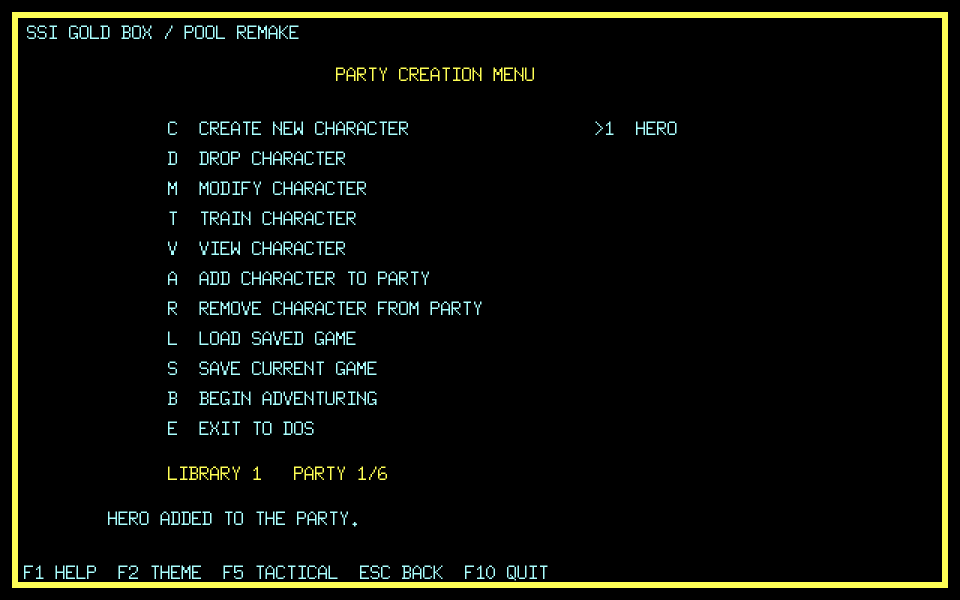
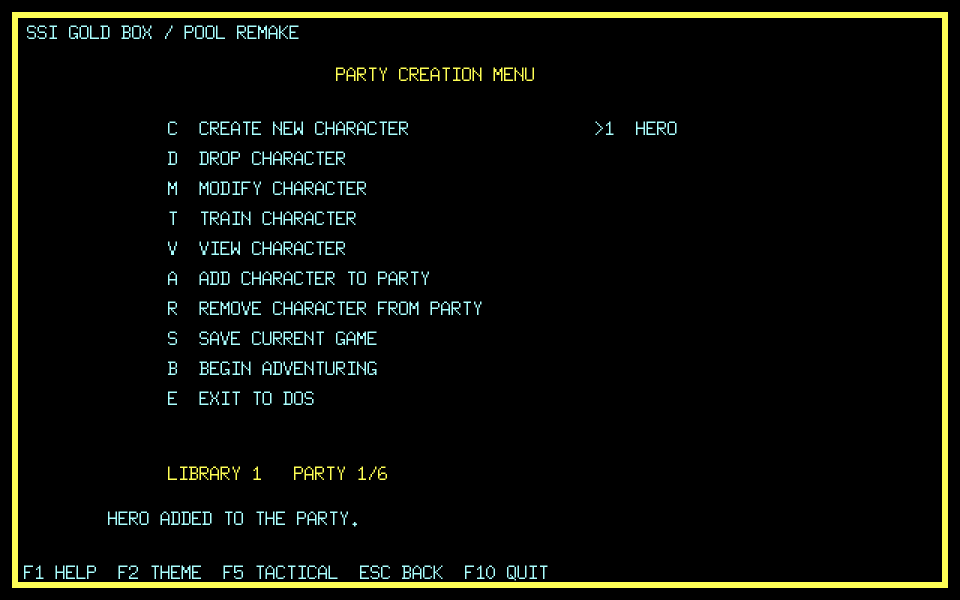
fix: 照原版訂正第一人稱背景色與隊伍選單可見規則
`tools/capture-dos-adventure.sh` 加拍 `-raw`（按鍵當下）與靜止兩張，才分得出
「畫面不一樣」與「拍錯時間點」——`B)EGIN` 之後的乾淨視野只閃一下就被 Rolf
事件蓋掉，先前那張基準圖因此標錯了狀態。

量原版量到三件事：

- 內框幾何 `(24,24)` 起 88×88，與 spec 047 的 `StageInset` 逐格相同。
- 天空是 EGA 11 青、地面是 EGA 6 棕；先前的 EGA 1 藍／EGA 8 深灰是接手時
  帶進來的佔位值，不是從原版讀的。兩個索引只對碼頭這一張成立，接第二張圖
  之前不要當通用值。
- 隊伍非空的人物管理選單只有九項，沒有 `LOAD SAVED GAME`。`L)OAD` 因此改成
  只在空隊伍出現；`T)RAIN` 原版也沒有，但旗標來源還沒讀，留成已知偏差。

事件鏈本來就對得上：Rolf 事件在 `15, 1 W`、導覽第二段在 `11, 2 S`，remake 的
`FACING 3`／`FACING 2` 換算後與原版狀態列相同，台詞逐字相同。

Changed region(s): [[0.2188, 0.6, 0.4062, 0.72], [0.2188, 0.54, 0.4062, 0.57]]

diff --git a/cmd/pool-game/party_menu.go b/cmd/pool-game/party_menu.go
@@ -24,22 +24,31 @@ type partyMenuEntry struct {
 	message messageID
 	// needsParty 為真時，隊伍空的就不顯示也不接受按鍵。
 	needsParty bool
+	// emptyOnly 為真時反過來：**隊伍有人就不顯示**。
+	// `L)OAD SAVED GAME` 是唯一一個——原版隊伍非空的截圖上沒有它。
+	emptyOnly bool
 }
 
 // partyMenuEntries 依說明書 p.8..p.10 的敘述順序列出十一項。
 func partyMenuEntries() []partyMenuEntry {
 	return []partyMenuEntry{
-		{ebiten.KeyC, msgMenuCreate, false},
-		{ebiten.KeyD, msgMenuDrop, true},
-		{ebiten.KeyM, msgMenuModify, true},
-		{ebiten.KeyT, msgMenuTrain, true},
-		{ebiten.KeyV, msgMenuView, true},
-		{ebiten.KeyA, msgMenuAdd, false},
-		{ebiten.KeyR, msgMenuRemove, true},
-		{ebiten.KeyL, msgMenuLoad, false},
-		{ebiten.KeyS, msgMenuSave, true},
-		{ebiten.KeyB, msgMenuBegin, true},
-		{ebiten.KeyE, msgMenuExit, false},
+		{ebiten.KeyC, msgMenuCreate, false, false},
+		{ebiten.KeyD, msgMenuDrop, true, false},
+		{ebiten.KeyM, msgMenuModify, true, false},
+		// T)RAIN **原版在這個畫面上不顯示**（兩張原版截圖都沒有它）。
+		// 它由 `DS:06D4h` 那個旗標控制，而那個旗標從哪裡設還沒讀出來，
+		// 所以 remake 先一律顯示——藏起來玩家就昇不了級。這是**已知的
+		// 偏差**，不是照原版接的。
+		{ebiten.KeyT, msgMenuTrain, true, false},
+		{ebiten.KeyV, msgMenuView, true, false},
+		{ebiten.KeyA, msgMenuAdd, false, false},
+		{ebiten.KeyR, msgMenuRemove, true, false},
+		// L)OAD 只在隊伍是空的時候出現：原版隊伍非空的截圖上沒有它，
+		// 空隊伍那一張有。
+		{ebiten.KeyL, msgMenuLoad, false, true},
+		{ebiten.KeyS, msgMenuSave, true, false},
+		{ebiten.KeyB, msgMenuBegin, true, false},
+		{ebiten.KeyE, msgMenuExit, false, false},
 	}
 }
 
@@ -49,6 +58,9 @@ func (a *app) visiblePartyMenuEntries() []partyMenuEntry {
 	visible := make([]partyMenuEntry, 0, len(partyMenuEntries()))
 	for _, entry := range partyMenuEntries() {
 		if entry.needsParty && !hasParty {
+			continue
+		}
+		if entry.emptyOnly && hasParty {
 			continue
 		}
 		visible = append(visible, entry)

diff --git a/cmd/pool-game/main.go b/cmd/pool-game/main.go
@@ -2629,11 +2629,29 @@ func drawCamp(screen *ebiten.Image, a *app, foreground, accent color.Color) {
 	drawText(screen, a.campPendingLine(), 100, 248, foreground)
 }
 
+// poolFirstPersonStageFill 是第一人稱視野的三段背景。
+//
+// **幾何量過了**（2026-09-05，`docs/reference/original-dos/adventure/`）：
+// 原版那一框的內部在 320×200 座標是 `(24,24)` 起的 88×88，與這裡的
+// `StageInset` 逐格相同。
+//
+// **顏色也量過了**：碼頭那一張的天空是 EGA 11（`85,255,255` 青），
+// 地面是 EGA 6（`170,85,0` 棕）。spec 047 原本寫的「保留既有 EGA blue／
+// dark-gray」是接手時帶過來的佔位值，不是從原版讀的——對拍一看就差很多。
+//
+// **這兩個索引的來源仍未讀**：原版一定是逐區決定的（地城不會有青色天空），
+// 而那份資料在哪還沒找到。所以這裡是「對著唯一畫得出來的那一張圖量出來的」，
+// 不是「從原版資料讀出來的」；接第二張圖之前不要把它當通用值。
+const (
+	poolSkyPaletteIndex    = 11
+	poolGroundPaletteIndex = 6
+)
+
 func poolFirstPersonStageFill() (viewport.StageInsetFill, error) {
-	background := viewport.Background{SkyPalette: 1, Rects: []viewport.BackgroundRect{
-		{X: 24, Y: 24, Width: 88, Height: 44, PaletteIndex: 1},
+	background := viewport.Background{SkyPalette: poolSkyPaletteIndex, Rects: []viewport.BackgroundRect{
+		{X: 24, Y: 24, Width: 88, Height: 44, PaletteIndex: poolSkyPaletteIndex},
 		{X: 24, Y: 68, Width: 88, Height: 0, PaletteIndex: 0},
-		{X: 24, Y: 68, Width: 88, Height: 44, PaletteIndex: 8},
+		{X: 24, Y: 68, Width: 88, Height: 44, PaletteIndex: poolGroundPaletteIndex},
 	}}
 	return viewport.FillBackgroundToStageInset(background, viewport.StageInset{X: 24, Y: 24, Width: 88, Height: 88, WallTop: 40})
 }

diff --git a/cmd/pool-game/party_menu_test.go b/cmd/pool-game/party_menu_test.go
@@ -39,10 +39,30 @@ func TestEmptyPartyShowsOnlyTheFourOriginalEntries(t *testing.T) {
 			t.Fatalf("第 %d 項是 %v，預期 %v", index, keys[index], want[index])
 		}
 	}
-	// 有人之後十一項全出現。
+	// 有人之後換一組。原版隊伍非空的截圖上是九項：
+	// CREATE／DROP／MODIFY／VIEW／ADD／REMOVE／SAVE／BEGIN／EXIT
+	// ——**沒有 LOAD，也沒有 TRAIN**。remake 多一項 T）RAIN，那是已知的偏差
+	// （原版由 `DS:06D4h` 控制，那個旗標的來源還沒讀）。
 	a = menuApp(rookie("HERO"))
-	if got := len(a.visiblePartyMenuEntries()); got != 11 {
-		t.Fatalf("有隊伍時列出 %d 項，預期 11 項", got)
+	keys = nil
+	for _, entry := range a.visiblePartyMenuEntries() {
+		keys = append(keys, entry.key)
+	}
+	want = []ebiten.Key{ebiten.KeyC, ebiten.KeyD, ebiten.KeyM, ebiten.KeyT,
+		ebiten.KeyV, ebiten.KeyA, ebiten.KeyR, ebiten.KeyS, ebiten.KeyB, ebiten.KeyE}
+	if len(keys) != len(want) {
+		t.Fatalf("有隊伍時列出 %d 項，預期 %d 項", len(keys), len(want))
+	}
+	for index := range want {
+		if keys[index] != want[index] {
+			t.Fatalf("有隊伍時第 %d 項是 %v，預期 %v", index, keys[index], want[index])
+		}
+	}
+	// L）OAD 只在空隊伍出現。
+	for _, entry := range a.visiblePartyMenuEntries() {
+		if entry.key == ebiten.KeyL {
+			t.Fatal("隊伍有人時不該列出 L）OAD SAVED GAME")
+		}
 	}
 }
 

diff --git a/cmd/pool-game/main_test.go b/cmd/pool-game/main_test.go
@@ -1012,11 +1012,16 @@ func TestPoolFirstPersonUsesSharedStageInsetFill(t *testing.T) {
 	if err != nil {
 		t.Fatal(err)
 	}
-	wantPostWall := []viewport.BackgroundRect{{X: 24, Y: 24, Width: 88, Height: 16, PaletteIndex: 1}}
+	// 兩個色索引是量原版量出來的（spec 047 的來源節、
+	// `docs/reference/original-dos/adventure/02-first-person-14-1-west.png`）：
+	// 天空 EGA 11 青、地面 EGA 6 棕。
+	wantPostWall := []viewport.BackgroundRect{{X: 24, Y: 24, Width: 88, Height: 16, PaletteIndex: poolSkyPaletteIndex}}
 	if len(fill.Backdrop) != 3 || !reflect.DeepEqual(fill.PostWall, wantPostWall) {
 		t.Fatalf("Pool stage fill=%+v, want three bands and post-wall=%+v", fill, wantPostWall)
 	}
-	if fill.Backdrop[0].PaletteIndex != 1 || fill.Backdrop[2].PaletteIndex != 8 || fill.Backdrop[2].Y+fill.Backdrop[2].Height != 112 {
+	if fill.Backdrop[0].PaletteIndex != poolSkyPaletteIndex ||
+		fill.Backdrop[2].PaletteIndex != poolGroundPaletteIndex ||
+		fill.Backdrop[2].Y+fill.Backdrop[2].Height != 112 {
 		t.Fatalf("Pool stage palettes/bounds changed: %+v", fill.Backdrop)
 	}
 }

diff --git a/docs/reference/original-dos/adventure/README.md b/docs/reference/original-dos/adventure/README.md
@@ -1,14 +1,23 @@
 # 原版走到第一人稱畫面的對拍基準
 
 由 `tools/capture-dos-adventure.sh` 在一次性 Docker 裡重生（DOSBox ＋ Xvfb）。
-鍵序寫在腳本的預設 `POOL_KEYS` 裡，重跑就會得到同一批畫面。
+鍵序寫在腳本的預設 `POOL_KEYS` 裡，重跑就會得到同一批畫面。腳本每一步拍兩張，
+`-raw` 是按鍵後立刻拍、另一張是等畫面靜止才拍；下表的「來源」指的是
+`workplace/oracle/screens/` 裡的原始檔名。
 
-| 檔案 | 走到哪 | SHA-256 |
-|---|---|---|
[4 lines of base64/hex data omitted]
+| 檔案 | 來源 | 走到哪 | SHA-256 |
+|---|---|---|---|
[5 lines of base64/hex data omitted]
+
+**「按下 `B` 之後的第一人稱畫面」拍不到乾淨的那一張**：`B` 一按下去，Rolf 的
+事件就蓋上來了，所以靜止後拍到的是 Rolf（`18-b`），而按鍵當下拍到的還是上一幕
+的選單（`18-b-raw`）。乾淨的視野要等台詞關掉才出現，而那時隊伍已經被導覽帶著
+往西走了一格。這就是 `02` 的位置是 `14, 1` 不是 `15, 1` 的原因——不是原版的
+起點不同。
 
 ## 逐張讀到的東西
 
@@ -20,36 +29,50 @@
 **`01`**：底部是 `ADD A CHARACTER: ADD EXIT`。名單上只有剛建好的 HERO——
 出貨的 `chrdat*` 檔**不在名單上**，因為 `CHARLIST.TXT` 是空的。
 
-**`02`**：狀態列是 `15, 1 W 00:00`——位置 (15,1)、朝向 **W**、時鐘 00:00。
+**`04`**：隊伍非空的選單是**九項**：`CREATE NEW CHARACTER`、`DROP CHARACTER`、
+`MODIFY CHARACTER`、`VIEW CHARACTER`、`ADD CHARACTER TO PARTY`、
+`REMOVE CHARACTER FROM PARTY`、`SAVE CURRENT GAME`、`BEGIN ADVENTURING`、
+`EXIT TO DOS`。**沒有 `LOAD SAVED GAME`，也沒有 `TRAIN CHARACTER`**。
+上方是隊伍面板（`NAME / AC / HP`，`HERO 10 6`）。與 `00` 一正一反，
+`L)OAD` 的可見規則因此是「只在空隊伍出現」（spec 008 已據此修正 remake）。
+`T)RAIN` 在兩張裡都沒有，但缺席的理由還沒讀出來，所以不能直接抄。
+
+**`03`**：Rolf 的半身像**畫在第一人稱那一框裡**，台詞在下框，底部
+`PRESS <ENTER>/<RETURN> TO CONTINUE`，狀態列 `15, 1 W 00:00`。
+
+**`02`**：狀態列是 `14, 1 W 00:00`——位置 (14,1)、朝向 **W**、時鐘 00:00。
 朝向與 spec 010 的「facing 6」在共用 engine 的 0/2/4/6 制下換算相符
-（6 ÷ 2 = 3 ＝ 西，spec 076）。右邊是隊伍面板 `NAME / AC / HP`。
-畫面內容：上半青色天空、下半藍色水面、棕色木棧道往遠處收窄、兩側棕色柱子，
-棧道中央站著一個人形。
+（6 ÷ 2 = 3 ＝ 西，spec 076）。畫面內容：上半青色天空、下半藍色水面、
+棕色木棧道往遠處收窄、兩側棕色柱子，正前方是一道拱門。
 
-**`03`**：Rolf 的半身像在左框，台詞在下框，底部 `PRESS <ENTER>/<RETURN> TO
-CONTINUE`。
+## 與 remake 現況的差距（2026-09-05）
 
-## 與 remake 現況的差距（2026-09-05 第一次對拍）
+同一支 `tools/capture-remake-creation.sh` 重生的 remake 畫面對照：
 
-`02` 與 `docs/screenshots/pool-remake-initial-rolf-event.png`（同一支
-`tools/capture-remake-creation.sh` 重生的）**不一致**：
-
-| | 原版 | remake |
+| 狀態 | 原版 | remake |
 |---|---|---|
-| 視野框佔的面積 | 幾乎填滿左半的框 | 上四分之三是純色，牆片只佔底部一條 |
-| 天空 | 上半青色 | 全藍 |
-| 地面 | 棕色棧道，往遠處收窄 | 灰色，幾乎看不到 |
-| 兩側 | 藍色水面加棕色柱子 | 藍色格子加紅／粉紅柱子 |
-| 棧道上的人形 | 有 | 沒有 |
-| 右半版面 | 隊伍面板（`NAME / AC / HP`）與狀態列 `15, 1 W 00:00` | 除錯文字（`GEO3 BLOCK 0`、`X 15 Y 1 FACING 3`…）|
+| `B` 之後的第一個事件 | `03`（`15, 1 W`）| `pool-remake-initial-rolf-event.png`（`X 15 Y 1 FACING 3`）|
+| 導覽第二段 | `19-Return`（`11, 2 S`，提爾神殿）| `pool-remake-rolf-tour-tyr.png`（`X 11 Y 2 FACING 2`）|
 
-**最大的一項是視野的尺度**：remake 的牆片畫在 `viewLeft + 欄 × 16` 再放大
+**位置、朝向與台詞逐字相同**——`FACING 3`／`FACING 2` 換算成 W／S，與原版狀態列
+一致（spec 076 的 0 北 1 東 2 南 3 西）。事件鏈這一段對得上。
+
+差的是那一框裡畫的東西：
+
+| | 原版 | remake | 狀態 |
+|---|---|---|---|
+| 天空色 | EGA 11 青 | EGA 11 青 | **已對上**（2026-09-05 改的；先前是 EGA 1 藍）|
+| 地面色 | EGA 6 棕 | EGA 6 棕 | **已對上**（先前是 EGA 8 深灰）|
+| 內框幾何 | 320×200 座標 `(24,24)` 起 88×88 | 同 | **已對上**（本來就對）|
+| 視野的透視尺度 | 透視填滿整框 | 牆片縮在底部一條 | 未對上 |
+| 對話時框裡畫什麼 | NPC 半身像蓋掉視野 | 仍畫第一人稱視野 | 未對上 |
+| 兩側 | 藍色水面加棕色柱子 | 藍色格子加紅／粉紅柱子 | 未對上 |
+| 右半版面 | 隊伍面板 `NAME / AC / HP` ＋狀態列 `14, 1 W 00:00` | 除錯文字（`GEO3 BLOCK 0`、`X 15 Y 1 FACING 3`…）| 未對上 |
+| 外框美術 | 紅色繩索花紋 | 黃色細線 | 未對上 |
+
+**視野的尺度是剩下最大的一項**：remake 的牆片畫在 `viewLeft + 欄 × 16` 再放大
 兩倍，而背景填的是 `StageInset{88×88}`——兩者對不上，所以牆片縮在底部。
-原版那一框裡的透視是滿的。這一項要先量原版那一框的實際像素範圍才動得了，
-不是調一個常數就好。
+原版那一框裡的透視是滿的。這一項不是調一個常數就好。
 
-朝向對得上：remake 顯示 `FACING 3`，原版顯示 `W`（spec 076 的 0 北 1 東
-2 南 3 西）。文字也對得上——Rolf 的第一頁逐字相同。
-
-所以「背景與同狀態 DOS 畫面」這一項現在的狀態是**已經對拍、不一致**，
-不是「還沒對拍」。差異清單就是接下來要逐條收掉的東西。
+所以「背景與同狀態 DOS 畫面」這一項現在的狀態是**已經對拍、部分一致**。
+上表就是接下來要逐條收掉的東西。

diff --git a/WORKLIST.md b/WORKLIST.md
@@ -181,14 +181,21 @@
   仍是跨作品 strong inference；自由移動交接、地名、bounded／wrapped／door
   policy 仍待證明。
   **同狀態 DOS 畫面已經對拍了**（2026-09-05）：`tools/capture-dos-adventure.sh`
-  把原版一路開到第一人稱畫面，四張基準圖與逐項差異寫在
+  把原版一路開到第一人稱畫面，五張基準圖與逐項差異寫在
   `docs/reference/original-dos/adventure/README.md`。**Rolf 初次 APPROACH
   的圖像也在那裡**（不再是待證明）。
-  對拍結果是**不一致**，最大的一項是視野的尺度：remake 的牆片畫在
-  `viewLeft + 欄 × 16` 再放大兩倍，背景卻填 `StageInset{88×88}`，兩者對不上，
-  所以牆片縮在框底一條，上面四分之三是純色；原版那一框的透視是滿的。
-  其次是配色（原版天空青色、地面棕色棧道；remake 全藍加灰）與棧道上的人形。
-  朝向與文字對得上：remake 顯示 `FACING 3`、原版顯示 `W`，Rolf 第一頁逐字相同。
+  對拍結果是**部分一致**。對上的是事件鏈與兩個背景色索引：
+  Rolf 事件在 `15, 1 W`、導覽第二段在 `11, 2 S`，remake 的 `FACING 3`／`FACING 2`
+  換算後與原版狀態列逐項相同，台詞逐字相同；內框幾何量出來就是
+  `StageInset{24,24,88,88}`，本來就對；天空 EGA 11 青、地面 EGA 6 棕已照原版改
+  （先前的 EGA 1 藍／EGA 8 深灰是接手時帶進來的佔位值，spec 047 已訂正）。
+  沒對上的還有四項：視野的透視尺度（remake 的牆片畫在 `viewLeft + 欄 × 16` 再
+  放大兩倍，背景卻填 `StageInset{88×88}`，所以牆片縮在框底一條，原版那一框的
+  透視是滿的）、對話時原版會用 NPC 半身像蓋掉視野而 remake 仍畫第一人稱、
+  兩側水面與柱子的配色、以及右半版面（原版是隊伍面板加狀態列，remake 是除錯文字）。
+  **副產品**：那一輪對拍抓到隊伍非空的選單只有九項，沒有 `LOAD SAVED GAME`
+  也沒有 `TRAIN CHARACTER`；`L)OAD` 的可見規則已照原版改成「只在空隊伍出現」，
+  `T)RAIN` 因為旗標來源還沒讀，留成已知偏差（spec 008）。
   Spec 047 已將第一人稱內容填滿內框的三層繪製契約抽到共用 engine
   `viewport.FillBackgroundToStageInset`；Pool 與 CoAB 都只宣告各自的 viewport 幾何，
   共用 engine 負責背景外擴與牆片之後的上緣補層。兩作的整合測試已通過；Pool 的

diff --git a/docs/spec/008-character-library-and-party-menu.md b/docs/spec/008-character-library-and-party-menu.md
@@ -10,6 +10,14 @@
   畫面依序列出 `CREATE NEW CHARACTER`、`ADD CHARACTER TO PARTY`、
   `LOAD SAVED GAME`、`EXIT TO DOS`，底部提示 `CHOOSE A FUNCTION`。
   那是**空隊伍**的畫面，不是完整清單——見下一節。
+- **隊伍非空的同一張選單**（2026-09-05 由 `tools/capture-dos-adventure.sh`
+  在 DOSBox 內走到，`docs/reference/original-dos/adventure/04-party-menu-with-party.png`，
[1 lines of base64/hex data omitted]
+  **只有九項**，順序是 `CREATE NEW CHARACTER`、`DROP CHARACTER`、
+  `MODIFY CHARACTER`、`VIEW CHARACTER`、`ADD CHARACTER TO PARTY`、
+  `REMOVE CHARACTER FROM PARTY`、`SAVE CURRENT GAME`、`BEGIN ADVENTURING`、
+  `EXIT TO DOS`。**沒有 `LOAD SAVED GAME`，也沒有 `TRAIN CHARACTER`。**
+  那張圖的狀態是「剛用 `C)REATE` 建好一名 1 級角色、`A)DD` 進隊伍，還沒存過檔」。
 - 原版 Rule Book 的「Creating A Party Of Characters」明寫最多 6 名 player characters，
   遊戲內總共可控制 8 名，另兩格保留給途中加入的 NPC：
   <https://www.mocagh.org/ssi/pool-manual.pdf>。目前 remake `party` 只保存玩家角色，
@@ -45,6 +53,16 @@
 四項」、p.9「若你未將任何人物加入隊伍，則大部份的人物處理選擇項都將不會
 出現」）：隊伍是空的時候只留 C、A、L、E ——正好就是上一節那張截圖上的四項，
 兩份證據互相印證。
+
+**隊伍有人的時候是另一組**，而它不是「十一項全開」：原版截圖上是
+C、D、M、V、A、R、S、B、E 九項。L 與 T 兩項只在這一組裡消失。
+
+- **L)OAD 的規則已經照原版接上**：`emptyOnly`，隊伍有人就不顯示也不接受按鍵。
+  兩張截圖一正一反（空隊伍有、非空沒有），這一條是**已證實**。
+- **T)RAIN 是已知的偏差**：原版兩張截圖都沒有它。原版每個指令各有一個啟用旗標
+  （`T` 的在 `DS:06D4h`，spec 097），那個旗標從哪裡設還沒讀出來，所以分不出
+  「一律不顯示」與「有條件才顯示」（例如經驗值足夠才亮）。remake 目前一律顯示
+  ——藏起來玩家就昇不了級。讀出旗標來源之前不要當成照原版接的。
 
 D、M、T、V、R 五項要先指定對象；remake 以 1..6 選人，選中的那一位在右欄
 標上 `>`。看不見的指令連按鍵都不接受：畫面上沒有那一列卻按得動，等於多開了

diff --git a/docs/spec/047-shared-first-person-inset-fill.md b/docs/spec/047-shared-first-person-inset-fill.md
@@ -8,6 +8,18 @@
 - CoAB 的 README／正常遊戲畫面證明：只畫 DOS 88×88 背景時，title-owned stage
   inset 可能在四周留黑帶；牆片合成後，斜邊素材的黑底還會重新蓋住頂部角落。
 - 使用者 2026-09-01 指定兩作共用此機制，不能在兩個遊戲各複製一份演算法。
+- **Pool 的 inset 幾何與兩個背景色索引已量過原版**（2026-09-05，
+  `docs/reference/original-dos/adventure/02-first-person-14-1-west.png`，
+  由 `tools/capture-dos-adventure.sh` 在 DOSBox 內走到 GEO3/0 的 (14,1) 朝西）：
+  - 那一框的內部在 320×200 座標是 `(24,24)` 起的 88×88，與契約 3 的
+    `StageInset` 逐格相同——幾何本來就對。
+  - 天空是 EGA 11（`85,255,255` 青），地面是 EGA 6（`170,85,0` 棕）。
+    契約 3 原本寫的「保留既有 EGA blue／dark-gray」是接手時帶進來的佔位值，
+    不是從原版讀的。
+
+  **這兩個索引仍是「量出來的」，不是「從原版資料讀出來的」**：原版一定是逐區
+  決定的（地城不會有青色天空），而那份資料在哪還沒找到。所以它們只對碼頭這一
+  張成立；接第二張圖之前不要把它當通用值。
 
 ## 契約
 
@@ -16,7 +28,7 @@
 2. engine 不得知道 CoAB／Pool、地名、frame 素材或 palette RGB；作品只提供 native
    inset 幾何及第一個由牆面接管的 row。
 3. Pool 的現行 176×176 第一人稱視窗使用 native `(24,24,88,88)`、wall row 40；
-   保留既有 EGA blue／dark-gray 背景與原始 wall stamp 座標。
+   背景用 EGA 11（天空）與 EGA 6（地面），wall stamp 座標照原始。
 4. CoAB 使用自己的 `(22,22,98,98)` inset，但消費同一 API。
 5. 非法尺寸、wall row 或非三段背景失敗即關閉；輸入不得被修改。
 
